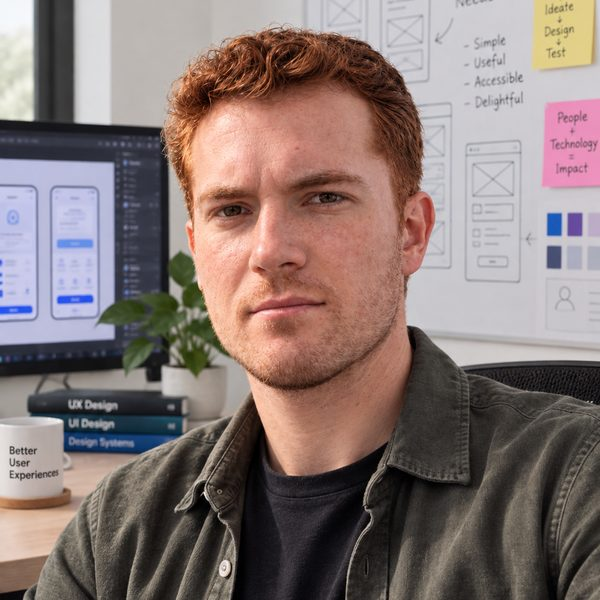
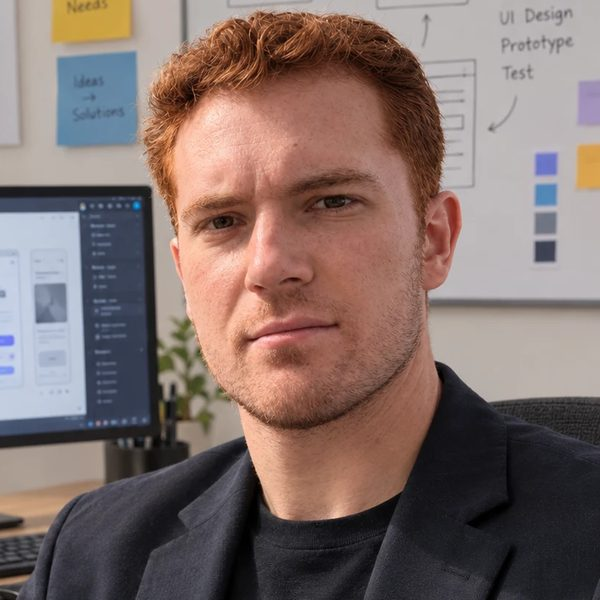
feat(nosotros): actualizar foto thomas gomez
Nueva foto recortada en cuadrado con los ojos a un tercio de la altura,
a 600x600 y JPEG progresivo, con el mismo encuadre que el resto del
equipo. El src lleva ?v=13 porque el nombre del archivo no cambia y la
caché de GitHub Pages seguiría sirviendo la imagen anterior.

diff --git a/site/nosotros/index.html b/site/nosotros/index.html
@@ -259,7 +259,7 @@
         </li>
 
         <li class="miembro">
-          <img class="miembro__foto" src="../assets/img/equipo/thomas-gomez.jpg"
+          <img class="miembro__foto" src="../assets/img/equipo/thomas-gomez.jpg?v=13"
                width="600" height="600" alt="Thomas Gomez" loading="lazy">
           <h3 class="miembro__nombre">Thomas Gomez</h3>
           <p class="miembro__puesto">Diseñador</p>
